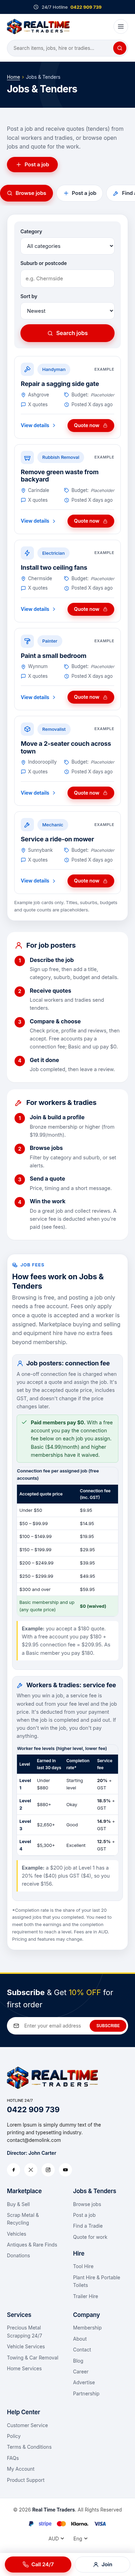
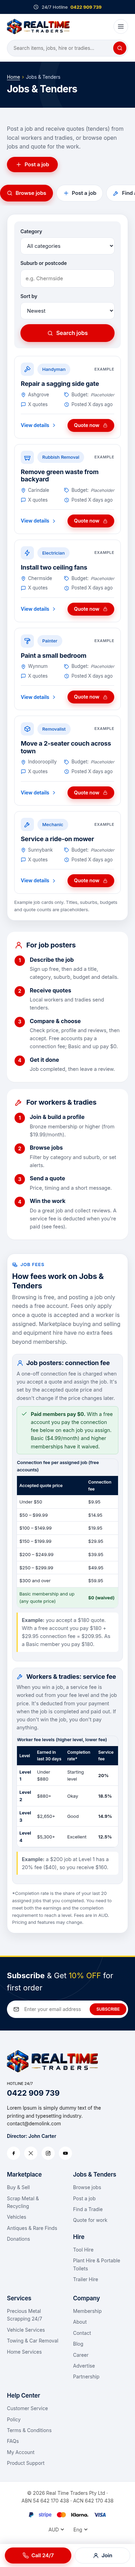
Add company details; remove GST (not registered)

diff --git a/membership.html b/membership.html
@@ -4,7 +4,7 @@
   <meta charset="utf-8">
   <meta name="viewport" content="width=device-width, initial-scale=1">
   <title>Membership &amp; Pricing | Real Time Traders</title>
-  <meta name="description" content="Browse free, post jobs with a free account, or join from $4.99 a month. Compare Basic, Bronze, Silver and Gold memberships. Introductory pricing, inc. GST.">
+  <meta name="description" content="Browse free, post jobs with a free account, or join from $4.99 a month. Compare Basic, Bronze, Silver and Gold memberships. Introductory pricing, AUD.">
   <link rel="preconnect" href="https://fonts.googleapis.com">
   <link rel="preconnect" href="https://fonts.gstatic.com" crossorigin>
   <link href="https://fonts.googleapis.com/css2?family=Inter:wght@400;500;600;700;800&display=swap" rel="stylesheet">
@@ -181,7 +181,7 @@
       <div class="container">
         <div class="section-head section-head--center">
           <p class="section-head__sub">Anyone can look at everything. Post jobs with a free account, or pick a membership to buy, sell and quote for work.</p>
-          <p class="price-note">Introductory pricing, inc. GST</p>
+          <p class="price-note">Introductory pricing, AUD</p>
         </div>
         <div class="tier-grid">
           <article class="tier">
@@ -236,7 +236,7 @@
           <table class="compare">
             <thead><tr><th scope="col">Feature</th><th scope="col">Guest<br><small>no account</small></th><th scope="col">Free account</th><th scope="col">Basic</th><th scope="col">Bronze</th><th scope="col" class="is-featured">Silver</th><th scope="col">Gold</th></tr></thead>
             <tbody>
-              <tr><th scope="row">Monthly price (inc. GST)</th><td>Free</td><td>Free</td><td>$4.99</td><td>$19.99</td><td class="is-featured">$39.99</td><td>$79.99</td></tr>
+              <tr><th scope="row">Monthly price (AUD)</th><td>Free</td><td>Free</td><td>$4.99</td><td>$19.99</td><td class="is-featured">$39.99</td><td>$79.99</td></tr>
               <tr><th scope="row">Annual price (2 months free)</th><td>Free</td><td>Free</td><td>$49.90</td><td>$199.90</td><td class="is-featured">$399.90</td><td>$799.90</td></tr>
               <tr><th scope="row">Browse marketplace, jobs &amp; hire</th><td><span class="yes" aria-label="Included"><svg class="icon" aria-hidden="true"><use href="#i-check"/></svg></span></td><td><span class="yes" aria-label="Included"><svg class="icon" aria-hidden="true"><use href="#i-check"/></svg></span></td><td><span class="yes" aria-label="Included"><svg class="icon" aria-hidden="true"><use href="#i-check"/></svg></span></td><td><span class="yes" aria-label="Included"><svg class="icon" aria-hidden="true"><use href="#i-check"/></svg></span></td><td class="is-featured"><span class="yes" aria-label="Included"><svg class="icon" aria-hidden="true"><use href="#i-check"/></svg></span></td><td><span class="yes" aria-label="Included"><svg class="icon" aria-hidden="true"><use href="#i-check"/></svg></span></td></tr>
               <tr><th scope="row">Request hire &amp; service quotes</th><td><span class="yes" aria-label="Included"><svg class="icon" aria-hidden="true"><use href="#i-check"/></svg></span></td><td><span class="yes" aria-label="Included"><svg class="icon" aria-hidden="true"><use href="#i-check"/></svg></span></td><td><span class="yes" aria-label="Included"><svg class="icon" aria-hidden="true"><use href="#i-check"/></svg></span></td><td><span class="yes" aria-label="Included"><svg class="icon" aria-hidden="true"><use href="#i-check"/></svg></span></td><td class="is-featured"><span class="yes" aria-label="Included"><svg class="icon" aria-hidden="true"><use href="#i-check"/></svg></span></td><td><span class="yes" aria-label="Included"><svg class="icon" aria-hidden="true"><use href="#i-check"/></svg></span></td></tr>
@@ -248,7 +248,7 @@
               <tr><th scope="row">Message buyers &amp; sellers</th><td><span class="no" aria-label="Not included">–</span></td><td><span class="no" aria-label="Not included">–</span></td><td><span class="yes" aria-label="Included"><svg class="icon" aria-hidden="true"><use href="#i-check"/></svg></span></td><td><span class="yes" aria-label="Included"><svg class="icon" aria-hidden="true"><use href="#i-check"/></svg></span></td><td class="is-featured"><span class="yes" aria-label="Included"><svg class="icon" aria-hidden="true"><use href="#i-check"/></svg></span></td><td><span class="yes" aria-label="Included"><svg class="icon" aria-hidden="true"><use href="#i-check"/></svg></span></td></tr>
               <tr><th scope="row">Saved searches &amp; alerts</th><td><span class="no" aria-label="Not included">–</span></td><td><span class="no" aria-label="Not included">–</span></td><td><span class="yes" aria-label="Included"><svg class="icon" aria-hidden="true"><use href="#i-check"/></svg></span></td><td><span class="yes" aria-label="Included"><svg class="icon" aria-hidden="true"><use href="#i-check"/></svg></span></td><td class="is-featured"><span class="yes" aria-label="Included"><svg class="icon" aria-hidden="true"><use href="#i-check"/></svg></span></td><td><span class="yes" aria-label="Included"><svg class="icon" aria-hidden="true"><use href="#i-check"/></svg></span></td></tr>
               <tr><th scope="row">Quote on jobs &amp; tenders</th><td><span class="no" aria-label="Not included">–</span></td><td><span class="no" aria-label="Not included">–</span></td><td><span class="no" aria-label="Not included">–</span></td><td>20/month</td><td class="is-featured">60/month</td><td>Unlimited*</td></tr>
-              <tr><th scope="row">Worker service fee (on jobs won)</th><td>n/a</td><td>n/a</td><td>n/a</td><td>12.5–20% + GST</td><td class="is-featured">12.5–20% + GST</td><td>12.5–20% + GST</td></tr>
+              <tr><th scope="row">Worker service fee (on jobs won)</th><td>n/a</td><td>n/a</td><td>n/a</td><td>12.5–20%</td><td class="is-featured">12.5–20%</td><td>12.5–20%</td></tr>
               <tr><th scope="row">Featured listings</th><td><span class="no" aria-label="Not included">–</span></td><td><span class="no" aria-label="Not included">–</span></td><td><span class="no" aria-label="Not included">–</span></td><td><span class="no" aria-label="Not included">–</span></td><td class="is-featured">2/month</td><td>10/month + top placement</td></tr>
               <tr><th scope="row">Verified member badge</th><td><span class="no" aria-label="Not included">–</span></td><td><span class="no" aria-label="Not included">–</span></td><td><span class="no" aria-label="Not included">–</span></td><td><span class="no" aria-label="Not included">–</span></td><td class="is-featured"><span class="yes" aria-label="Included"><svg class="icon" aria-hidden="true"><use href="#i-check"/></svg></span></td><td><span class="yes" aria-label="Included"><svg class="icon" aria-hidden="true"><use href="#i-check"/></svg></span></td></tr>
               <tr><th scope="row">Hire booking priority</th><td><span class="no" aria-label="Not included">–</span></td><td><span class="no" aria-label="Not included">–</span></td><td><span class="no" aria-label="Not included">–</span></td><td><span class="no" aria-label="Not included">–</span></td><td class="is-featured"><span class="yes" aria-label="Included"><svg class="icon" aria-hidden="true"><use href="#i-check"/></svg></span></td><td><span class="yes" aria-label="Included"><svg class="icon" aria-hidden="true"><use href="#i-check"/></svg></span></td></tr>
@@ -260,9 +260,9 @@
             </tbody>
           </table>
         </div>
-        <p class="note">Prices in AUD, including GST. Introductory pricing; pricing and features may change. *Unlimited is subject to fair use. Member hire discounts apply to Real Time Traders hire bookings.</p>
+        <p class="note">Prices in AUD. Introductory pricing; pricing and features may change. *Unlimited is subject to fair use. Member hire discounts apply to Real Time Traders hire bookings.</p>
         <div class="fees-mini">
-          <p><strong><svg class="icon" aria-hidden="true"><use href="#i-coins"/></svg> Job fees:</strong> free accounts pay a connection fee of $9.95–$59.95 when they assign a job; Basic and higher members pay $0. Workers pay a service fee of 12.5–20% + GST on jobs they win, based on their fee level. Marketplace and hire have no extra fees beyond membership.</p>
+          <p><strong><svg class="icon" aria-hidden="true"><use href="#i-coins"/></svg> Job fees:</strong> free accounts pay a connection fee of $9.95–$59.95 when they assign a job; Basic and higher members pay $0. Workers pay a service fee of 12.5–20% of the job price on jobs they win, based on their fee level. Marketplace and hire have no extra fees beyond membership.</p>
           <a href="jobs.html#fees" class="link-arrow">How job fees work <svg class="icon" aria-hidden="true"><use href="#i-arrow-right"/></svg></a>
         </div>
       </div>
@@ -373,7 +373,7 @@
     </div>
     <div class="footer__bottom">
       <div class="container footer__bottom-inner">
-        <p>© 2026 <strong>Real Time Traders</strong>. All Rights Reserved</p>
+        <p class="footer__legal"><span>© 2026 Real Time Traders Pty Ltd</span> · <span>ABN 54 642 170 438</span> · <span>ACN 642 170 438</span></p>
         <img src="images/payments.png" alt="Accepted payments: PayPal, Stripe, Mastercard, Klarna, Visa" width="300" height="38" loading="lazy">
         <div class="footer__selects">
           <label class="select-plain"><span class="sr-only">Currency</span><select><option>AUD</option><option>USD</option></select></label>
@@ -409,7 +409,7 @@
             <label class="field"><span>Membership</span>
               <select id="join-tier"><option value="Free">Free account: $0 (connection fee per job)</option><option value="Basic">Basic: $4.99/month</option><option value="Bronze">Bronze: $19.99/month</option><option value="Silver" selected>Silver: $39.99/month</option><option value="Gold">Gold: $79.99/month</option></select>
             </label>
-            <p class="note">A free account can post jobs (connection fee $9.95–$59.95 per assigned job). Basic $4.99, Bronze $19.99, Silver $39.99, Gold $79.99 a month (inc. GST), or pay yearly and get 2 months free. <a href="membership.html" data-close>Compare memberships</a></p>
+            <p class="note">A free account can post jobs (connection fee $9.95–$59.95 per assigned job). Basic $4.99, Bronze $19.99, Silver $39.99, Gold $79.99 a month, or pay yearly and get 2 months free. <a href="membership.html" data-close>Compare memberships</a></p>
             <button type="submit" class="btn btn--primary btn--block">Create account</button>
             <p class="form-status" role="status" aria-live="polite"></p>
           </form>

diff --git a/contact.html b/contact.html
@@ -187,8 +187,9 @@
           <ul class="contact__list">
             <li><span class="contact__icon"><svg class="icon" aria-hidden="true"><use href="#i-phone"/></svg></span><span><small>Hotline 24/7</small><a href="tel:+61422909739">0422 909 739</a></span></li>
             <li><span class="contact__icon"><svg class="icon" aria-hidden="true"><use href="#i-mail"/></svg></span><span><small>Email</small><a href="mailto:contact@demolink.com">contact@demolink.com</a></span></li>
-            <li><span class="contact__icon"><svg class="icon" aria-hidden="true"><use href="#i-pin"/></svg></span><span><small>Location</small>Brisbane, QLD <em class="ph">[address placeholder]</em></span></li>
+            <li><span class="contact__icon"><svg class="icon" aria-hidden="true"><use href="#i-pin"/></svg></span><span><small>Location</small>Brisbane, QLD (we come to you) <em class="ph">[service area placeholder]</em></span></li>
             <li><span class="contact__icon"><svg class="icon" aria-hidden="true"><use href="#i-user"/></svg></span><span><small>Company director</small>John Carter</span></li>
+            <li class="contact__company"><span class="contact__icon"><svg class="icon" aria-hidden="true"><use href="#i-shield"/></svg></span><span><small>Company details</small>Real Time Traders Pty Ltd<br>ABN 54 642 170 438<br>ACN 642 170 438</span></li>
           </ul>
         </div>
         <form class="quote-form" id="quote-form" action="#" novalidate>
@@ -232,7 +233,7 @@
           </details>
           <details class="faq__item">
             <summary>How much does membership cost?<svg class="icon faq__icon" aria-hidden="true"><use href="#i-plus"/></svg></summary>
-            <div class="faq__answer"><p>Introductory pricing, including GST: browsing and a free account cost nothing (free accounts pay a connection fee per assigned job). Basic is $4.99/month, Bronze $19.99/month, Silver $39.99/month and Gold $79.99/month. Pay yearly and get 2 months free ($49.90, $199.90, $399.90 or $799.90 a year). Pricing and features may change.</p></div>
+            <div class="faq__answer"><p>Introductory pricing, in AUD: browsing and a free account cost nothing (free accounts pay a connection fee per assigned job). Basic is $4.99/month, Bronze $19.99/month, Silver $39.99/month and Gold $79.99/month. Pay yearly and get 2 months free ($49.90, $199.90, $399.90 or $799.90 a year). Pricing and features may change.</p></div>
           </details>
           <details class="faq__item">
             <summary>How do jobs and tenders work?<svg class="icon faq__icon" aria-hidden="true"><use href="#i-plus"/></svg></summary>
@@ -240,11 +241,11 @@
           </details>
           <details class="faq__item">
             <summary>What fees apply to jobs and tenders?<svg class="icon faq__icon" aria-hidden="true"><use href="#i-plus"/></svg></summary>
-            <div class="faq__answer"><p>Two fees, and only once a quote is accepted. Posters on a free account pay a one-off connection fee of $9.95 to $59.95 (inc. GST, based on the accepted quote price). It's <strong>waived for paid members</strong> (Basic and up). Workers pay a service fee of 12.5% to 20% + GST on jobs they win, deducted when they're paid. See <a href="jobs.html#fees">job fees</a>.</p></div>
+            <div class="faq__answer"><p>Two fees, and only once a quote is accepted. Posters on a free account pay a one-off connection fee of $9.95 to $59.95 (based on the accepted quote price). It's <strong>waived for paid members</strong> (Basic and up). Workers pay a service fee of 12.5% to 20% of the job price on jobs they win, deducted when they're paid. See <a href="jobs.html#fees">job fees</a>.</p></div>
           </details>
           <details class="faq__item">
             <summary>How is the worker service fee worked out?<svg class="icon faq__icon" aria-hidden="true"><use href="#i-plus"/></svg></summary>
-            <div class="faq__answer"><p>It depends on your fee level, which is based on what you've earned in the last 30 days and your completion rate over your last 20 assigned jobs. Level 1 (under $880) pays 20%, Level 2 ($880+) 18.5%, Level 3 ($2,650+) 14.9% and Level 4 ($5,300+) 12.5%, all plus GST. If you don't win a job, you don't pay.</p></div>
+            <div class="faq__answer"><p>It depends on your fee level, which is based on what you've earned in the last 30 days and your completion rate over your last 20 assigned jobs. Level 1 (under $880) pays 20%, Level 2 ($880+) 18.5%, Level 3 ($2,650+) 14.9% and Level 4 ($5,300+) 12.5% of the job price. If you don't win a job, you don't pay.</p></div>
           </details>
           <details class="faq__item">
             <summary>Are there fees on marketplace sales or hire?<svg class="icon faq__icon" aria-hidden="true"><use href="#i-plus"/></svg></summary>
@@ -365,7 +366,7 @@
     </div>
     <div class="footer__bottom">
       <div class="container footer__bottom-inner">
-        <p>© 2026 <strong>Real Time Traders</strong>. All Rights Reserved</p>
+        <p class="footer__legal"><span>© 2026 Real Time Traders Pty Ltd</span> · <span>ABN 54 642 170 438</span> · <span>ACN 642 170 438</span></p>
         <img src="images/payments.png" alt="Accepted payments: PayPal, Stripe, Mastercard, Klarna, Visa" width="300" height="38" loading="lazy">
         <div class="footer__selects">
           <label class="select-plain"><span class="sr-only">Currency</span><select><option>AUD</option><option>USD</option></select></label>
@@ -401,7 +402,7 @@
             <label class="field"><span>Membership</span>
               <select id="join-tier"><option value="Free">Free account: $0 (connection fee per job)</option><option value="Basic">Basic: $4.99/month</option><option value="Bronze">Bronze: $19.99/month</option><option value="Silver" selected>Silver: $39.99/month</option><option value="Gold">Gold: $79.99/month</option></select>
             </label>
-            <p class="note">A free account can post jobs (connection fee $9.95–$59.95 per assigned job). Basic $4.99, Bronze $19.99, Silver $39.99, Gold $79.99 a month (inc. GST), or pay yearly and get 2 months free. <a href="membership.html" data-close>Compare memberships</a></p>
+            <p class="note">A free account can post jobs (connection fee $9.95–$59.95 per assigned job). Basic $4.99, Bronze $19.99, Silver $39.99, Gold $79.99 a month, or pay yearly and get 2 months free. <a href="membership.html" data-close>Compare memberships</a></p>
             <button type="submit" class="btn btn--primary btn--block">Create account</button>
             <p class="form-status" role="status" aria-live="polite"></p>
           </form>

diff --git a/jobs.html b/jobs.html
@@ -386,12 +386,12 @@
           <div class="fees__grid">
             <article class="fee-card">
               <h4><svg class="icon" aria-hidden="true"><use href="#i-user"/></svg> Job posters: connection fee</h4>
-              <p>A one-off connection fee is charged when you accept a quote and assign the job. It's set by the accepted quote price, includes GST, and doesn't change if the price changes later.</p>
+              <p>A one-off connection fee is charged when you accept a quote and assign the job. It's set by the accepted quote price and doesn't change if the price changes later.</p>
               <p class="fee-card__waived"><svg class="icon" aria-hidden="true"><use href="#i-check"/></svg> <span><strong>Paid members pay $0.</strong> With a free account you pay the connection fee below on each job you assign. Basic ($4.99/month) and higher memberships have it waived.</span></p>
               <div class="table-wrap table-wrap--plain">
                 <table class="fee-table">
                   <caption>Connection fee per assigned job (free accounts)</caption>
-                  <thead><tr><th scope="col">Accepted quote price</th><th scope="col">Connection fee (inc. GST)</th></tr></thead>
+                  <thead><tr><th scope="col">Accepted quote price</th><th scope="col">Connection fee</th></tr></thead>
                   <tbody><tr><td>Under $50</td><td>$9.95</td></tr><tr><td>$50 – $99.99</td><td>$14.95</td></tr><tr><td>$100 – $149.99</td><td>$19.95</td></tr><tr><td>$150 – $199.99</td><td>$29.95</td></tr><tr><td>$200 – $249.99</td><td>$39.95</td></tr><tr><td>$250 – $299.99</td><td>$49.95</td></tr><tr><td>$300 and over</td><td>$59.95</td></tr><tr class="is-member"><td>Basic membership and up (any quote price)</td><td><strong>$0 (waived)</strong></td></tr></tbody>
                 </table>
               </div>
@@ -404,10 +404,10 @@
                 <table class="fee-table">
                   <caption>Worker fee levels (higher level, lower fee)</caption>
                   <thead><tr><th scope="col">Level</th><th scope="col">Earned in last 30 days</th><th scope="col">Completion rate*</th><th scope="col">Service fee</th></tr></thead>
-                  <tbody><tr><th scope="row">Level 1</th><td>Under $880</td><td>Starting level</td><td><strong>20%</strong> + GST</td></tr><tr><th scope="row">Level 2</th><td>$880+</td><td>Okay</td><td><strong>18.5%</strong> + GST</td></tr><tr><th scope="row">Level 3</th><td>$2,650+</td><td>Good</td><td><strong>14.9%</strong> + GST</td></tr><tr><th scope="row">Level 4</th><td>$5,300+</td><td>Excellent</td><td><strong>12.5%</strong> + GST</td></tr></tbody>
+                  <tbody><tr><th scope="row">Level 1</th><td>Under $880</td><td>Starting level</td><td><strong>20%</strong></td></tr><tr><th scope="row">Level 2</th><td>$880+</td><td>Okay</td><td><strong>18.5%</strong></td></tr><tr><th scope="row">Level 3</th><td>$2,650+</td><td>Good</td><td><strong>14.9%</strong></td></tr><tr><th scope="row">Level 4</th><td>$5,300+</td><td>Excellent</td><td><strong>12.5%</strong></td></tr></tbody>
                 </table>
               </div>
-              <p class="fee-card__example"><strong>Example:</strong> a $200 job at Level 1 has a 20% fee ($40) plus GST ($4), so you receive $156.</p>
+              <p class="fee-card__example"><strong>Example:</strong> a $200 job at Level 1 has a 20% fee ($40), so you receive $160.</p>
             </article>
           </div>
           <p class="note">*Completion rate is the share of your last 20 assigned jobs that you completed. You need to meet both the earnings and the completion requirement to reach a level. Fees are in AUD. Pricing and features may change.</p>
@@ -490,7 +490,7 @@
     </div>
     <div class="footer__bottom">
       <div class="container footer__bottom-inner">
-        <p>© 2026 <strong>Real Time Traders</strong>. All Rights Reserved</p>
+        <p class="footer__legal"><span>© 2026 Real Time Traders Pty Ltd</span> · <span>ABN 54 642 170 438</span> · <span>ACN 642 170 438</span></p>
         <img src="images/payments.png" alt="Accepted payments: PayPal, Stripe, Mastercard, Klarna, Visa" width="300" height="38" loading="lazy">
         <div class="footer__selects">
           <label class="select-plain"><span class="sr-only">Currency</span><select><option>AUD</option><option>USD</option></select></label>
@@ -526,7 +526,7 @@
             <label class="field"><span>Membership</span>
               <select id="join-tier"><option value="Free">Free account: $0 (connection fee per job)</option><option value="Basic">Basic: $4.99/month</option><option value="Bronze">Bronze: $19.99/month</option><option value="Silver" selected>Silver: $39.99/month</option><option value="Gold">Gold: $79.99/month</option></select>
             </label>
-            <p class="note">A free account can post jobs (connection fee $9.95–$59.95 per assigned job). Basic $4.99, Bronze $19.99, Silver $39.99, Gold $79.99 a month (inc. GST), or pay yearly and get 2 months free. <a href="membership.html" data-close>Compare memberships</a></p>
+            <p class="note">A free account can post jobs (connection fee $9.95–$59.95 per assigned job). Basic $4.99, Bronze $19.99, Silver $39.99, Gold $79.99 a month, or pay yearly and get 2 months free. <a href="membership.html" data-close>Compare memberships</a></p>
             <button type="submit" class="btn btn--primary btn--block">Create account</button>
             <p class="form-status" role="status" aria-live="polite"></p>
           </form>

diff --git a/index.html b/index.html
@@ -331,7 +331,7 @@
             <li><span>Gold</span><strong>$79.99<small>/mo</small></strong></li>
           </ul>
         </div>
-        <p class="note member-teaser__note">Introductory pricing, inc. GST. Pay yearly and get 2 months free.</p>
+        <p class="note member-teaser__note">Introductory pricing, AUD. Pay yearly and get 2 months free.</p>
       </div>
     </section>
 
@@ -456,7 +456,7 @@
     </div>
     <div class="footer__bottom">
       <div class="container footer__bottom-inner">
-        <p>© 2026 <strong>Real Time Traders</strong>. All Rights Reserved</p>
+        <p class="footer__legal"><span>© 2026 Real Time Traders Pty Ltd</span> · <span>ABN 54 642 170 438</span> · <span>ACN 642 170 438</span></p>
         <img src="images/payments.png" alt="Accepted payments: PayPal, Stripe, Mastercard, Klarna, Visa" width="300" height="38" loading="lazy">
         <div class="footer__selects">
           <label class="select-plain"><span class="sr-only">Currency</span><select><option>AUD</option><option>USD</option></select></label>
@@ -492,7 +492,7 @@
             <label class="field"><span>Membership</span>
               <select id="join-tier"><option value="Free">Free account: $0 (connection fee per job)</option><option value="Basic">Basic: $4.99/month</option><option value="Bronze">Bronze: $19.99/month</option><option value="Silver" selected>Silver: $39.99/month</option><option value="Gold">Gold: $79.99/month</option></select>
             </label>
-            <p class="note">A free account can post jobs (connection fee $9.95–$59.95 per assigned job). Basic $4.99, Bronze $19.99, Silver $39.99, Gold $79.99 a month (inc. GST), or pay yearly and get 2 months free. <a href="membership.html" data-close>Compare memberships</a></p>
+            <p class="note">A free account can post jobs (connection fee $9.95–$59.95 per assigned job). Basic $4.99, Bronze $19.99, Silver $39.99, Gold $79.99 a month, or pay yearly and get 2 months free. <a href="membership.html" data-close>Compare memberships</a></p>
             <button type="submit" class="btn btn--primary btn--block">Create account</button>
             <p class="form-status" role="status" aria-live="polite"></p>
           </form>

diff --git a/community.html b/community.html
@@ -311,7 +311,7 @@
     </div>
     <div class="footer__bottom">
       <div class="container footer__bottom-inner">
-        <p>© 2026 <strong>Real Time Traders</strong>. All Rights Reserved</p>
+        <p class="footer__legal"><span>© 2026 Real Time Traders Pty Ltd</span> · <span>ABN 54 642 170 438</span> · <span>ACN 642 170 438</span></p>
         <img src="images/payments.png" alt="Accepted payments: PayPal, Stripe, Mastercard, Klarna, Visa" width="300" height="38" loading="lazy">
         <div class="footer__selects">
           <label class="select-plain"><span class="sr-only">Currency</span><select><option>AUD</option><option>USD</option></select></label>
@@ -347,7 +347,7 @@
             <label class="field"><span>Membership</span>
               <select id="join-tier"><option value="Free">Free account: $0 (connection fee per job)</option><option value="Basic">Basic: $4.99/month</option><option value="Bronze">Bronze: $19.99/month</option><option value="Silver" selected>Silver: $39.99/month</option><option value="Gold">Gold: $79.99/month</option></select>
             </label>
-            <p class="note">A free account can post jobs (connection fee $9.95–$59.95 per assigned job). Basic $4.99, Bronze $19.99, Silver $39.99, Gold $79.99 a month (inc. GST), or pay yearly and get 2 months free. <a href="membership.html" data-close>Compare memberships</a></p>
+            <p class="note">A free account can post jobs (connection fee $9.95–$59.95 per assigned job). Basic $4.99, Bronze $19.99, Silver $39.99, Gold $79.99 a month, or pay yearly and get 2 months free. <a href="membership.html" data-close>Compare memberships</a></p>
             <button type="submit" class="btn btn--primary btn--block">Create account</button>
             <p class="form-status" role="status" aria-live="polite"></p>
           </form>

diff --git a/hire.html b/hire.html
@@ -482,7 +482,7 @@
     </div>
     <div class="footer__bottom">
       <div class="container footer__bottom-inner">
-        <p>© 2026 <strong>Real Time Traders</strong>. All Rights Reserved</p>
+        <p class="footer__legal"><span>© 2026 Real Time Traders Pty Ltd</span> · <span>ABN 54 642 170 438</span> · <span>ACN 642 170 438</span></p>
         <img src="images/payments.png" alt="Accepted payments: PayPal, Stripe, Mastercard, Klarna, Visa" width="300" height="38" loading="lazy">
         <div class="footer__selects">
           <label class="select-plain"><span class="sr-only">Currency</span><select><option>AUD</option><option>USD</option></select></label>
@@ -518,7 +518,7 @@
             <label class="field"><span>Membership</span>
               <select id="join-tier"><option value="Free">Free account: $0 (connection fee per job)</option><option value="Basic">Basic: $4.99/month</option><option value="Bronze">Bronze: $19.99/month</option><option value="Silver" selected>Silver: $39.99/month</option><option value="Gold">Gold: $79.99/month</option></select>
             </label>
-            <p class="note">A free account can post jobs (connection fee $9.95–$59.95 per assigned job). Basic $4.99, Bronze $19.99, Silver $39.99, Gold $79.99 a month (inc. GST), or pay yearly and get 2 months free. <a href="membership.html" data-close>Compare memberships</a></p>
+            <p class="note">A free account can post jobs (connection fee $9.95–$59.95 per assigned job). Basic $4.99, Bronze $19.99, Silver $39.99, Gold $79.99 a month, or pay yearly and get 2 months free. <a href="membership.html" data-close>Compare memberships</a></p>
             <button type="submit" class="btn btn--primary btn--block">Create account</button>
             <p class="form-status" role="status" aria-live="polite"></p>
           </form>

diff --git a/marketplace.html b/marketplace.html
@@ -560,7 +560,7 @@
     </div>
     <div class="footer__bottom">
       <div class="container footer__bottom-inner">
-        <p>© 2026 <strong>Real Time Traders</strong>. All Rights Reserved</p>
+        <p class="footer__legal"><span>© 2026 Real Time Traders Pty Ltd</span> · <span>ABN 54 642 170 438</span> · <span>ACN 642 170 438</span></p>
         <img src="images/payments.png" alt="Accepted payments: PayPal, Stripe, Mastercard, Klarna, Visa" width="300" height="38" loading="lazy">
         <div class="footer__selects">
           <label class="select-plain"><span class="sr-only">Currency</span><select><option>AUD</option><option>USD</option></select></label>
@@ -596,7 +596,7 @@
             <label class="field"><span>Membership</span>
               <select id="join-tier"><option value="Free">Free account: $0 (connection fee per job)</option><option value="Basic">Basic: $4.99/month</option><option value="Bronze">Bronze: $19.99/month</option><option value="Silver" selected>Silver: $39.99/month</option><option value="Gold">Gold: $79.99/month</option></select>
             </label>
-            <p class="note">A free account can post jobs (connection fee $9.95–$59.95 per assigned job). Basic $4.99, Bronze $19.99, Silver $39.99, Gold $79.99 a month (inc. GST), or pay yearly and get 2 months free. <a href="membership.html" data-close>Compare memberships</a></p>
+            <p class="note">A free account can post jobs (connection fee $9.95–$59.95 per assigned job). Basic $4.99, Bronze $19.99, Silver $39.99, Gold $79.99 a month, or pay yearly and get 2 months free. <a href="membership.html" data-close>Compare memberships</a></p>
             <button type="submit" class="btn btn--primary btn--block">Create account</button>
             <p class="form-status" role="status" aria-live="polite"></p>
           </form>

diff --git a/services.html b/services.html
@@ -405,7 +405,7 @@
     </div>
     <div class="footer__bottom">
       <div class="container footer__bottom-inner">
-        <p>© 2026 <strong>Real Time Traders</strong>. All Rights Reserved</p>
+        <p class="footer__legal"><span>© 2026 Real Time Traders Pty Ltd</span> · <span>ABN 54 642 170 438</span> · <span>ACN 642 170 438</span></p>
         <img src="images/payments.png" alt="Accepted payments: PayPal, Stripe, Mastercard, Klarna, Visa" width="300" height="38" loading="lazy">
         <div class="footer__selects">
           <label class="select-plain"><span class="sr-only">Currency</span><select><option>AUD</option><option>USD</option></select></label>
@@ -441,7 +441,7 @@
             <label class="field"><span>Membership</span>
               <select id="join-tier"><option value="Free">Free account: $0 (connection fee per job)</option><option value="Basic">Basic: $4.99/month</option><option value="Bronze">Bronze: $19.99/month</option><option value="Silver" selected>Silver: $39.99/month</option><option value="Gold">Gold: $79.99/month</option></select>
             </label>
-            <p class="note">A free account can post jobs (connection fee $9.95–$59.95 per assigned job). Basic $4.99, Bronze $19.99, Silver $39.99, Gold $79.99 a month (inc. GST), or pay yearly and get 2 months free. <a href="membership.html" data-close>Compare memberships</a></p>
+            <p class="note">A free account can post jobs (connection fee $9.95–$59.95 per assigned job). Basic $4.99, Bronze $19.99, Silver $39.99, Gold $79.99 a month, or pay yearly and get 2 months free. <a href="membership.html" data-close>Compare memberships</a></p>
             <button type="submit" class="btn btn--primary btn--block">Create account</button>
             <p class="form-status" role="status" aria-live="polite"></p>
           </form>

diff --git a/css/style.css b/css/style.css
@@ -826,3 +826,7 @@ body:not(.is-member):not(.has-account) .account-only::after {
 body:not(.is-member):not(.has-account) .account-only:hover::after, body:not(.is-member):not(.has-account) .account-only:focus-visible::after { opacity: 1; transform: translate(-50%, 0); }
 .modal__demo-btns { display: flex; flex-wrap: wrap; gap: 8px; }
 .compare thead th small { font-weight: 500; opacity: .85; font-size: 11px; }
+
+/* ---- v8 company details ---- */
+.footer__legal span { white-space: nowrap; }
+.contact__company small + * { font-weight: 400; }

diff --git a/README.md b/README.md
@@ -4,6 +4,8 @@ A multi-page static site built with plain HTML, CSS and vanilla JS. There's no f
 
 Live site: https://dwayne260211.github.io/real-time-traders/
 
+Business: **Real Time Traders Pty Ltd** (Australian private company), ABN 54 642 170 438, ACN 642 170 438, Brisbane QLD. Not registered for GST. The footer on every page shows "© 2026 Real Time Traders Pty Ltd · ABN · ACN" and "Director: John Carter"; contact.html lists the company details. No street address is published.
+
 ```
 index.html        overview: hero, three pillars, service teasers, membership teaser, how it works, why choose us
 marketplace.html  categories, Featured / Antiques & Rare Finds / Donate tabs (#featured #rare #donate), trending, promo
@@ -12,7 +14,7 @@ hire.html         Tool / Plant & Portable Toilets / Trailer hire tabs (#tool #pl
 services.html     Precious Metal Scrapping 24/7 / Vehicle / Towing / Home tabs (#scrap #vehicle #towing #home)
 membership.html   tier cards, comparison table, how it works
 community.html    community help & donations, Just Landing (blog), testimonial
-contact.html      quote/contact form (#quote), hotline, director, FAQ (#faq)
+contact.html      quote/contact form (#quote), hotline, director, company details, FAQ (#faq)
 css/style.css     all styles, mobile-first; colour tokens in :root at the top
 js/main.js        menu, tabs (+ opening a tab from the URL hash), carousel, hearts, quote form + ?service= prefill,
                   post-a-job checks, membership locks, Join/Login modal mockup, member preview (kept across pages)
@@ -40,7 +42,10 @@ The site has three main sections ("pillars"), and the 24/7 services sit alongsid
 
 The nav, hero copy, quick links, footer, quote-form dropdown and FAQ all follow this structure.
 
-## Membership (v4): introductory pricing, AUD inc. GST
+## Membership (v4): introductory pricing, AUD
+
+> **GST:** Real Time Traders Pty Ltd is not registered for GST, so no GST is charged; register once turnover reaches the $75,000 threshold and update pricing then.
+
 | Tier | Monthly | Annual (2 months free) | What's included |
 |---|---|---|---|
 | Guest (no account) | Free | Free | Browse everything, request hire and service quotes, call the hotline |
@@ -51,7 +56,7 @@ The nav, hero copy, quick links, footer, quote-form dropdown and FAQ all follow 
 | Gold | $79.99 | $799.90 | Everything in Silver, plus unlimited quotes and listings (fair use), 10 featured listings/month with top placement, business profile/storefront, analytics, 10% off hire, priority support, up to 5 team users |
 
 - The competitor research (with sources and dates) and the pricing rationale are in [`docs/pricing-research.md`](docs/pricing-research.md).
-- On the page, the yellow "placeholders" banner is replaced by a small "Introductory pricing, inc. GST" note. The note under the table says "pricing and features may change" and explains that unlimited means fair use. Silver's "Recommended" badge is a design choice and does not claim it is the most popular tier.
+- On the page, the yellow "placeholders" banner is replaced by a small "Introductory pricing, AUD" note. The note under the table says "pricing and features may change" and explains that unlimited means fair use. Silver's "Recommended" badge is a design choice and does not claim it is the most popular tier.
 - **Post a job** needs only a free account. It has no lock icon, and the tooltip reads "Free account needed (sign up free)". Clicking it as a guest opens the modal as **"Create a free account"** with Free account preselected.
 - **Members-only buttons:** guests and free accounts see a lock icon and a tooltip. Clicking opens the Join modal with that tier preselected.
   - Buy, Sell an item, + Listing: "Basic membership or higher"
@@ -66,8 +71,8 @@ Shown in the "Job fees" block on `jobs.html#fees`, a short note and two table ro
 
 | Who | Fee | When |
 |---|---|---|
-| Job poster | Connection fee by accepted quote price: under $50 $9.95, $50–99.99 $14.95, $100–149.99 $19.95, $150–199.99 $29.95, $200–249.99 $39.95, $250–299.99 $49.95, $300+ $59.95 (inc. GST). Paid by **free accounts**; **waived for Basic, Bronze, Silver and Gold members**. Example: a $180 quote costs a free account $180 + $29.95 = $209.95, and a Basic member $180. | Once, when a quote is accepted and the job assigned |
-| Worker/tradie | Service fee by level: Level 1 (under $880 earned in the last 30 days) 20%, Level 2 ($880+) 18.5%, Level 3 ($2,650+) 14.9%, Level 4 ($5,300+) 12.5%. All **+ GST**, and the completion rate over the last 20 jobs must also meet the level | On jobs won, deducted at payout |
+| Job poster | Connection fee by accepted quote price: under $50 $9.95, $50–99.99 $14.95, $100–149.99 $19.95, $150–199.99 $29.95, $200–249.99 $39.95, $250–299.99 $49.95, $300+ $59.95. Paid by **free accounts**; **waived for Basic, Bronze, Silver and Gold members**. Example: a $180 quote costs a free account $180 + $29.95 = $209.95, and a Basic member $180. | Once, when a quote is accepted and the job assigned |
+| Worker/tradie | Service fee by level: Level 1 (under $880 earned in the last 30 days) 20%, Level 2 ($880+) 18.5%, Level 3 ($2,650+) 14.9%, Level 4 ($5,300+) 12.5% of the job price. Example: a $200 job at Level 1 has a $40 fee, so the worker receives $160. The completion rate over the last 20 jobs must also meet the level | On jobs won, deducted at payout |
 | Marketplace / hire | No extra fees beyond membership | n/a |
 
 Sources and caveats are in `docs/pricing-research.md`. The exact completion-rate % for each level isn't published by Airtasker and is still to be decided. Taking fees requires the payments backend.
@@ -100,8 +105,8 @@ Every text/background pair meets WCAG AA (4.5:1 or better). The font is Inter (G
 The logo files `logo-lockup.png` (horizontal, header/footer), `logo-full.png` (stacked) and `logo-icon.png` (icon only), plus `favicon-*.png`, `favicon.ico` and `apple-touch-icon.png`, are transparent cut-outs of the v2 logo. Use them on light backgrounds, because the navy lettering disappears on dark ones. The previous orange/charcoal logo set is kept, unused, in `images/logo-orange/`. The original orange donation category icon is in `images/legacy/`.
 
 ## Before going live: placeholders to replace
-- `contact@demolink.com` and the street address
-- Service area/suburbs, address, hours for non-scrapping services, and the list of accepted metals
+- `contact@demolink.com` (do not publish a street address; the site shows "Brisbane, QLD" only)
+- Service area/suburbs, hours for non-scrapping services, and the list of accepted metals
 - Trailer types, sizes and prices (all show "Price on request"), plus the trailer images (icons for now)
 - Tool Hire range (power tools, concrete & compaction, pressure washers, generators, ladders & scaffold, air compressors): the types, availability, hire periods, deposits and prices are all placeholders ("Price on request"), and the cards use icons instead of photos
 - Plant Hire range (portable toilets, site fencing, mini excavators & bobcats, skip bins, site sheds, water carts): the types, delivery area, operator/licence requirements, toilet servicing and prices are all placeholders ("Price on request"), and the cards use icons instead of photos

diff --git a/docs/pricing-research.md b/docs/pricing-research.md
@@ -21,7 +21,9 @@ Accessed 9 October 2026 (AEST). All figures are in AUD. Where a source gives pri
 | **Carsales** (private sellers) | Prices are dynamic, based on the vehicle and postcode, and carsales doesn't publish them. A user reports $229 Standard / $344 Premium / $414 Ultimate (June 2026). **Not confirmed by carsales** | https://help.carsales.com.au/hc/en-gb/articles/34235710344217-How-much-does-an-ad-cost and https://www.ozbargain.com.au/node/962347 | 9 Oct 2026 |
 | **Kennards Hire** (trade) | No paid membership. A free Trade/Credit Account with "custom trade rates", 30-day invoicing and the account portal. **No standard discount % is published** | https://www.kennards.com.au/trade and https://www.kennards.com.au/credit-account-application | 9 Oct 2026 |
 
-## Chosen pricing (introductory, AUD inc. GST)
+## Chosen pricing (introductory, AUD)
+
+> **GST:** Real Time Traders Pty Ltd is not registered for GST, so no GST is charged; register once turnover reaches the $75,000 threshold and update pricing then. (GST figures in the competitor table above describe those competitors' own pricing.)
 
 | Tier | Monthly | Annual (2 months free) | Listings | Jobs | Quotes | Featured | Hire discount | Other |
 |---|---|---|---|---|---|---|---|---|
@@ -55,16 +57,16 @@ Dwayne's decision was to take what Airtasker takes on Jobs & Tenders. The figure
 Caveats: Airtasker says fees may vary temporarily under its "randomised fee studies". A user comment on the tiers article (17 Jul 2026) claims Bronze shows 22%, but the official table still says 20%, so the site uses 20%.
 
 ### What Real Time Traders uses
-**Workers (service fee on jobs won, deducted at payout, plus GST).** The levels are renamed "Level 1–4" so they don't clash with our Bronze/Silver/Gold memberships.
+**Workers (service fee on jobs won, deducted at payout, as a % of the job price).** The levels are renamed "Level 1–4" so they don't clash with our Bronze/Silver/Gold memberships.
 
-| Level | Earned in last 30 days | Completion (last 20 jobs) | Service fee (ex GST) | Airtasker equivalent |
+| Level | Earned in last 30 days | Completion (last 20 jobs) | Service fee (% of job price) | Airtasker equivalent |
 |---|---|---|---|---|
 | Level 1 | Under $880 | Starting level | 20% | Bronze |
 | Level 2 | $880+ | Okay | 18.5% | Silver |
 | Level 3 | $2,650+ | Good | 14.9% | Gold |
 | Level 4 | $5,300+ | Excellent | 12.5% | Platinum |
 
-**Posters (connection fee per assigned job, inc. GST).** The fee bands are identical to Airtasker's ($9.95 to $59.95), and the fee is **waived for Basic, Bronze, Silver and Gold members**, the same way Airtasker's membership waives it. **Update (9 Oct 2026, Dwayne's decision):** like Airtasker, anyone can post jobs with a **free account** and pays the connection fee when they accept a quote. Paid members (Basic and up) have it waived, so Basic at $4.99/month pays for itself on a single job.
+**Posters (connection fee per assigned job).** The fee bands are identical to Airtasker's ($9.95 to $59.95), and the fee is **waived for Basic, Bronze, Silver and Gold members**, the same way Airtasker's membership waives it. **Update (9 Oct 2026, Dwayne's decision):** like Airtasker, anyone can post jobs with a **free account** and pays the connection fee when they accept a quote. Paid members (Basic and up) have it waived, so Basic at $4.99/month pays for itself on a single job.
 
 **Marketplace and hire:** no extra fees beyond membership (unchanged).
 
